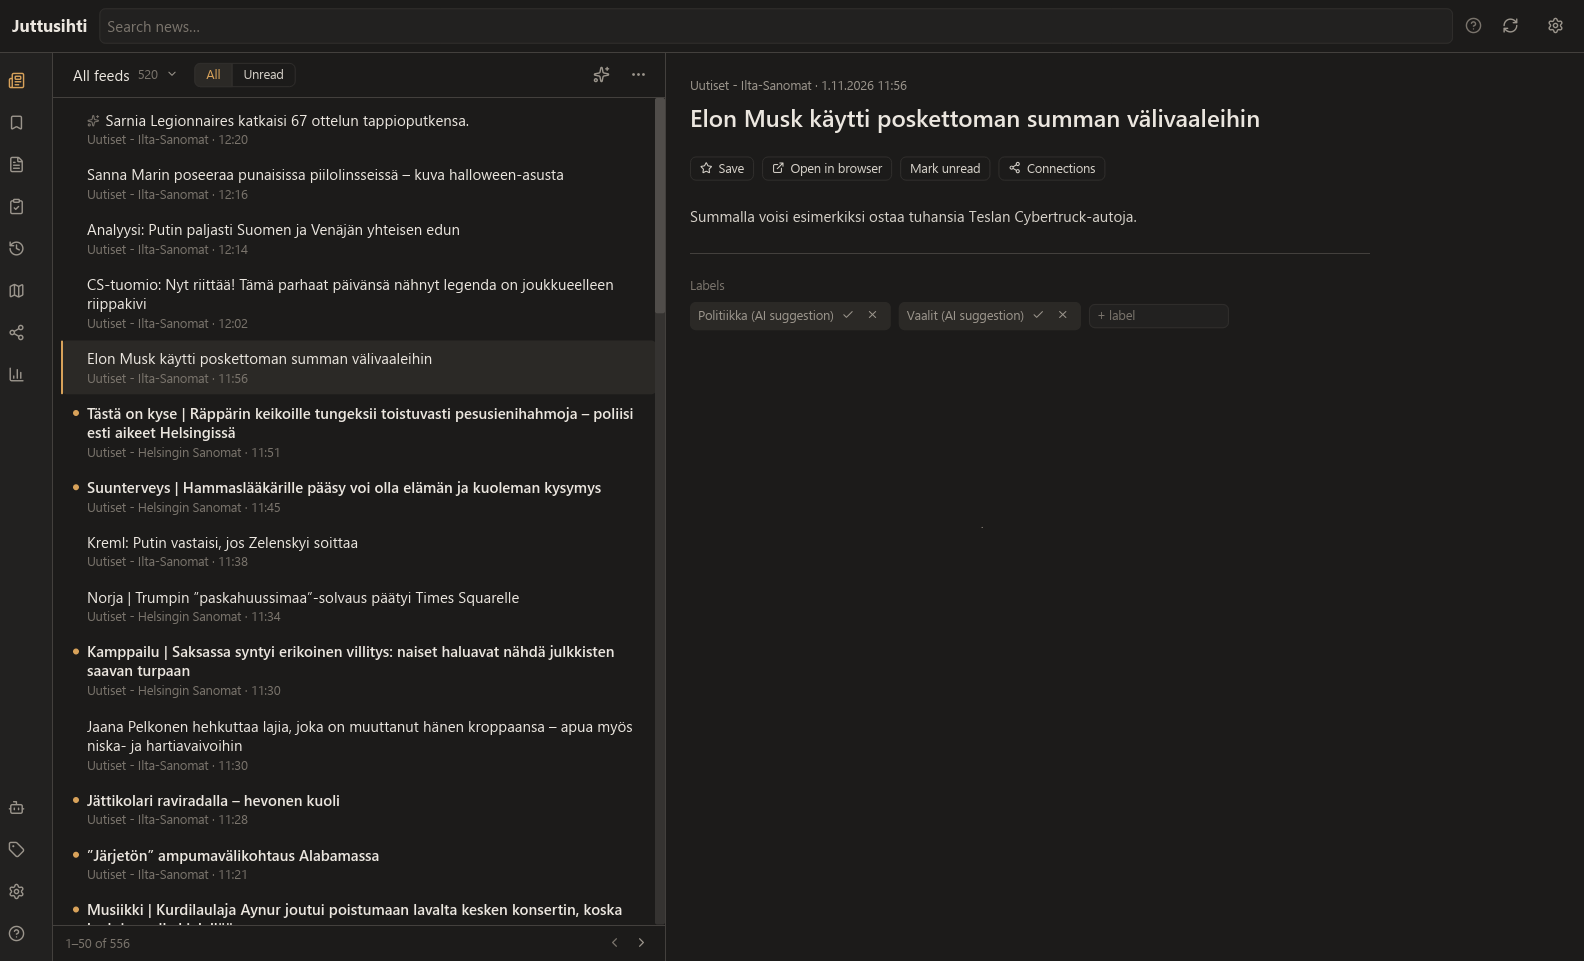
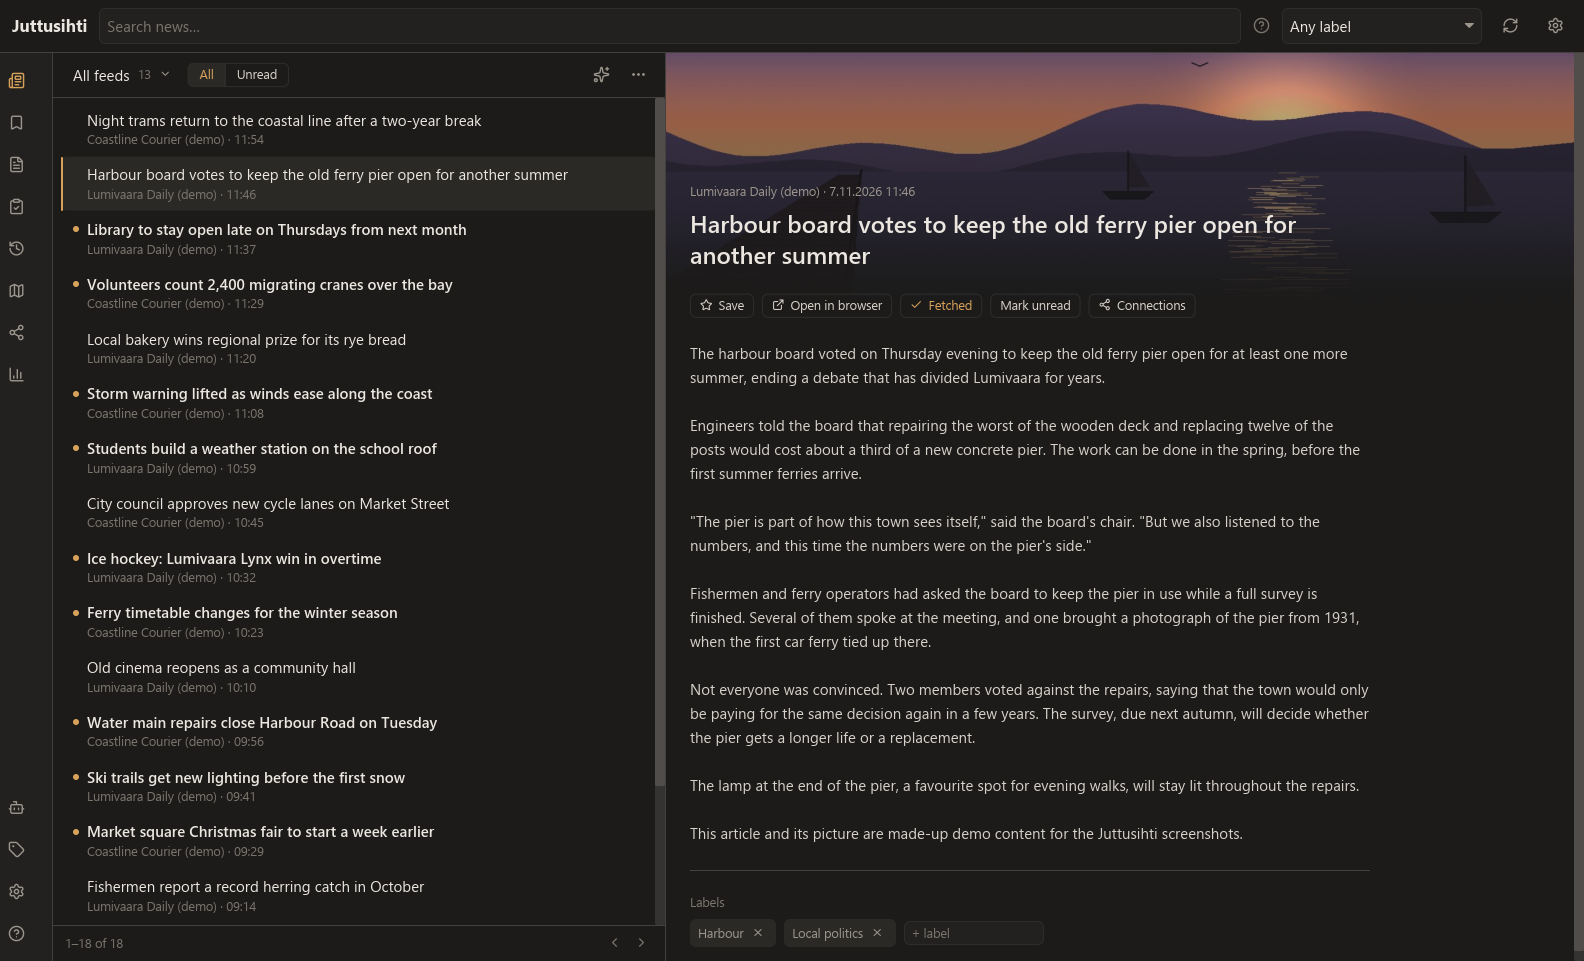
Document full articles step by step; demo-news reader screenshot
README and the in-app Help get a Full articles how-to (steps, privacy,
paywall and failure notes, cache settings), the 'a' shortcut in the
README table, and the new crates. The reader screenshot now shows
made-up demo news with a generated picture instead of real headlines.

diff --git a/crates/app/src/help.rs b/crates/app/src/help.rs
@@ -33,7 +33,7 @@ const SEARCH: [(&str, &str); 7] = [
 ];
 
 /// Sections of the guide, as (heading, paragraphs).
-const SECTIONS: [(&str, &[&str]); 9] = [
+const SECTIONS: [(&str, &[&str]); 10] = [
     (
         "Getting started",
         &[
@@ -48,8 +48,19 @@ const SECTIONS: [(&str, &[&str]); 9] = [
             "The feed menu chooses what the list shows: all news, a folder or one feed. All / Unread filters the list. Click an article to read it on the right; the star saves it to Saved in the rail.",
             "The ⋯ menu marks the whole list read, hides articles you have dismissed as irrelevant, switches between AI and original headlines and, for one feed, edits (rename, move to a folder) or unsubscribes it.",
             "Labels can be added to an article from its preview. The Labels screen renames, merges and deletes them.",
-            "When a feed only gives a teaser, \"Read full article\" (or press a) loads the whole article. Nothing is fetched until you ask. A hidden private browser with a brand-new empty profile opens the page, blocks known trackers and ads, accepts cookie banners (including the free choice of consent-or-pay walls) and keeps the text and main picture; then the whole profile, cookies included, is deleted. It takes about 5 to 9 seconds. Paywalled articles keep only the public part, with a note. Settings → Full articles sets picture downloads and the cache size, and clears the cache; Saved articles are never removed to make room.",
+            "When a feed only gives a teaser, \"Read full article\" (or press a) loads the whole article; see Full articles below.",
             "The label menu next to the search box shows only articles with that label (labels you added or accepted, not pending AI suggestions). It combines with the search, the feed menu and All / Unread; Clear removes both the search and the label.",
+        ],
+    ),
+    (
+        "Full articles",
+        &[
+            "Many feeds give only a headline and a teaser. Open the article and press \"Read full article\" next to \"Open in browser\", or press a. The button shows \"Fetching…\" for about 5 to 10 seconds, then the whole text replaces the teaser and the button says \"Fetched\". The main picture is shown faded behind the headline. A fetched article opens instantly and offline after that.",
+            "Nothing is fetched until you press the button. A hidden browser starts with a brand-new, empty profile, so the site sees a stranger with no earlier cookies or logins. Known trackers and ads are blocked (EasyList and EasyPrivacy). Cookie banners are accepted for you, including the free choice of \"consent or pay\" walls, so you never have to click one. When the text and picture are saved, the whole profile, cookies included, is deleted, so the next visit cannot be linked to this one.",
+            "Subscriber-only articles keep only the part the site shows everyone, with the note \"The rest of this article is for subscribers.\" Juttusihti never gets around a paywall.",
+            "If it does not work, the reader says why: \"Couldn't find the article text on the page.\" (also what a site that refuses the visit looks like) or \"The site took too long to answer.\" The teaser and \"Open in browser\" stay as they were.",
+            "Fetched text is searchable and is used by Custom analysis when you choose \"Archived article text\". It is never sent to an AI provider unless you include the article in an AI run.",
+            "Settings → Full articles: \"Download pictures\" (turn it off for text only; the picture is then never requested), the cache size limit (500 MB by default; the oldest fetched articles fall back to their teaser first, and Saved articles are never removed to make room) and \"Clear cache now\".",
         ],
     ),
     (
@@ -92,7 +103,7 @@ const SECTIONS: [(&str, &[&str]); 9] = [
     (
         "Settings",
         &[
-            "How long to keep articles (saved and researched articles are always kept), the refresh interval, dark or light theme, the CPU renderer for lower memory use, and the map tile server and its cache.",
+            "How long to keep articles (saved and researched articles are always kept), the refresh interval, dark or light theme, the CPU renderer for lower memory use, full-article pictures and cache size, and the map tile server and its cache.",
         ],
     ),
     (

diff --git a/README.md b/README.md
@@ -39,7 +39,7 @@ after showing what it will send and what it will cost. Written in Rust with
 - **Calm interface**: an icon rail, warm paper colours with amber accents in light and dark
   themes, a CPU renderer for low memory use, and a built-in Help screen (**F1**).
 - **Private by default**: all data is in one SQLite database on your computer. Nothing is sent
-  anywhere you did not ask for.
+  anywhere you did not ask for. Screenshots in this README use made-up demo news.
 
 ## Download
 
@@ -139,28 +139,54 @@ offline.
 - Add labels to an article from its preview. The **Labels** screen renames, merges and deletes
   them.
 - **Read full article** (shortcut **a**) fetches the whole article when the feed only has a
-  teaser; see [Full articles and privacy](#full-articles-and-privacy). It takes about 5 to 9
-  seconds. Paywalled articles keep only the public part, with a note. The main picture is shown
-  faded above the text. If the page gives no article text, you see "Couldn't find the article
-  text on the page." (this is also what a refusing site looks like).
+  teaser; see [Full articles](#full-articles).
 
-#### Full articles and privacy
+### Full articles
 
-Nothing is fetched until you press **Read full article**. Then a helper program loads the page
-in a hidden browser with a brand-new, empty profile, so no earlier cookies or logins exist:
+Many feeds give only a headline and a teaser. To read the whole story inside Juttusihti:
 
-- Known trackers and ads are blocked with the EasyList and EasyPrivacy lists.
+1. Open the article in the reader.
+2. Press **Read full article** next to **Open in browser**, or press **a**. The button shows
+   **Fetching…** for about 5 to 10 seconds.
+3. The whole text replaces the teaser and the button says **Fetched**. The main picture is
+   shown faded behind the headline. The article now opens instantly, also offline.
+
+Subscriber-only articles keep only the part the site shows everyone, with the note "The rest
+of this article is for subscribers." Juttusihti never gets around a paywall. If a fetch does
+not work, the reader says why: "Couldn't find the article text on the page." (this is also
+what a site that refuses the visit looks like) or "The site took too long to answer." The
+teaser and **Open in browser** stay as they were.
+
+Fetched text is included in search, and in **Custom analysis** when you choose **Archived
+article text**.
+
+#### Privacy
+
+Nothing is fetched until you press the button. Then a helper program loads the page in a
+hidden browser with a brand-new, empty profile, so the site sees a stranger with no earlier
+cookies or logins:
+
+- Known trackers and ads are blocked with the EasyList and EasyPrivacy lists, which ship with
+  the app; no rules are downloaded at run time.
 - Cookie banners are accepted automatically, including the free choice of "consent or pay"
-  walls. This is deliberate: the alternative is a page with no text. Because the profile is
-  new, the cookies only live for that one visit.
-- When the text and the main picture are saved, the whole profile, cookies included, is
-  deleted.
-- The text is stored on this computer, apart from the feed, and is searchable. It is never
-  sent to an AI provider unless you include the article in an AI run.
+  walls, so you never click one. This is deliberate: the alternative is often a page with no
+  text. Because the profile is new, the cookies only live for that one visit.
+- When the text and the main picture are saved, the whole profile, cookies, storage and cache
+  included, is deleted, so the next visit cannot be linked to this one. If the helper crashes
+  or hangs, the profile is still deleted, and any leftovers are cleared when the app starts.
+- The site still sees your IP address, as with any visit.
+- The text and picture are stored on this computer, apart from the feed. They are never sent
+  to an AI provider unless you include the article in an AI run.
 
-Settings → **Full articles** turns picture downloads on or off, sets the size limit of the
-cache (500 MB by default; Saved articles are never removed to make room) and has **Clear
-cache now**.
+#### Cache
+
+Settings → **Full articles**:
+
+- **Download pictures**: on by default. Off means text only; the picture is never requested.
+- **Cache size limit**: 500 MB by default. When the cache is full, the oldest fetched articles
+  fall back to their feed teaser first; they can be fetched again. Saved articles are never
+  removed to make room.
+- **Clear cache now** removes all fetched text and pictures.
 
 ### Searching
 
@@ -184,6 +210,7 @@ not pending AI suggestions); it works with or without search text, and **Clear**
 | --- | --- |
 | `j` / `↓`, `k` / `↑` | next / previous article |
 | `o` / `Enter` | open the article in the browser |
+| `a` | read the full article in the reader |
 | `s` | save or unsave |
 | `m` | mark read or unread |
 | `n` / `p` | next / previous page |
@@ -278,8 +305,9 @@ week or month buckets, and export any report as CSV.
 ### Settings and your data
 
 Settings sets how long articles are kept (saved and researched articles are always kept), the
-refresh interval, dark or light theme, the CPU renderer (far less memory), and the map tile
-server and its cache.
+refresh interval, dark or light theme, the CPU renderer (far less memory), full-article
+pictures and cache size (see [Full articles](#full-articles)), and the map tile server and its
+cache.
 
 ![Settings](docs/screenshots/settings.png)
 
@@ -297,6 +325,8 @@ Settings. Set `JUTTUSIHTI_DATA_DIR` to keep it somewhere else.
 | `crates/ai` (`juttusihti-ai`) | OpenAI / Anthropic / Gemini clients, prompts and output validation, the approved-session runner | yes, only for approved runs | yes |
 | `crates/analytics` (`juttusihti-analytics`) | DuckDB reports over a consistent SQLite snapshot, on a bounded, cancellable worker | no | no |
 | `crates/app` (`juttusihti`) | Iced 0.14 desktop UI | via `fetch` | no |
+| `crates/article` (`juttusihti-article`) | Messages between the app and the browser helper, picture re-encoding | no | no |
+| `crates/browser` (`juttusihti-browser`) | Full-article helper: headless Servo, tracker blocking, cookie consent, article extraction. Its own cargo workspace | yes, only when you press Read full article | no |
 | `crates/bench` | Benchmarks at 10k/100k/1M articles (BENCHMARKS.md) | no | no |
 
 ### Build, test and run
@@ -533,6 +563,12 @@ tokenizer, or AI-assisted query expansion.
     - There is no geocoder: Nominatim's policy rules out automatic bulk lookups.
     - Markers, labels and the attribution strip are drawn in a layer above the tiles, and
       tiles are clipped to the map area with the CPU renderer too.
+- **Full articles**: done on Windows. A separate helper (`juttusihti-browser`, headless Servo
+  0.7) fetches one article per click with a throwaway profile, EasyList/EasyPrivacy blocking,
+  DuckDuckGo autoconsent rules and Readability.js. Checked against Ilta-Sanomat (3 of 3 free
+  articles in full) and Helsingin Sanomat (2 of 3; the third is subscriber-only and keeps its
+  public opening). Servo does not expose HTTP status codes, so a refusing site shows up as "no
+  article text". Not verified yet: the Linux packages with the helper, and a signed release.
 - **M8 Distribution**: done, except checks on real Linux desktops.
   - GitHub Actions: CI on every push and pull request; a `v*` tag builds the Linux packages
     onto a draft release, and the signed Windows installer is added locally (RELEASING.md).
